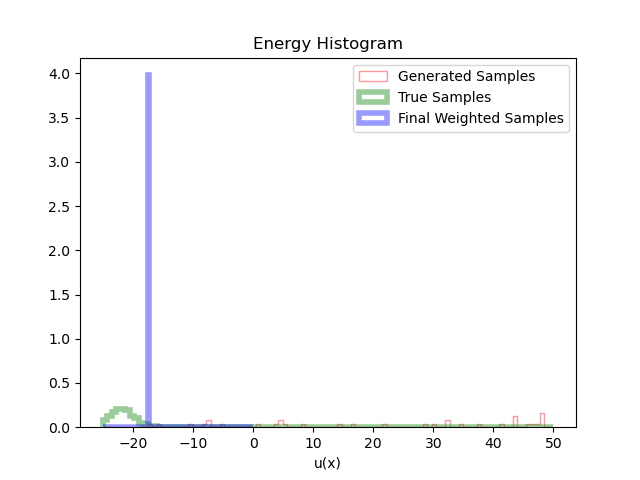
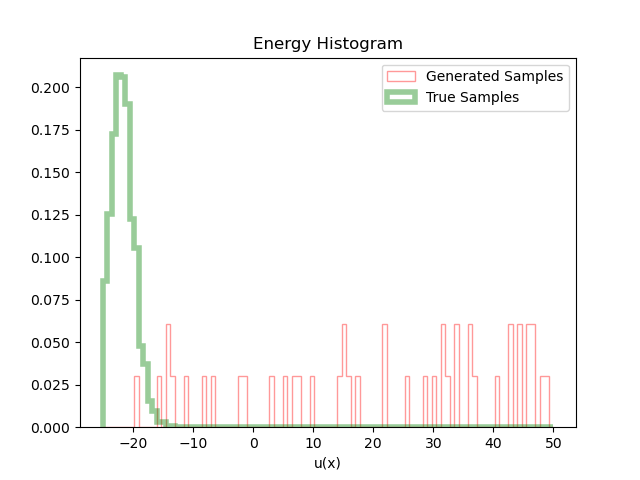
plotted with the combination loss

diff --git a/eval_and_plot.py b/eval_and_plot.py
@@ -186,9 +186,9 @@ def plot_generating_flow(args, data, flow, prior, target, latent, samples, model
             linewidth=4,
             label='True Samples');
     
-        plt.hist(energies_bg, bins=100, density=True, range=(min_energy, 0), alpha=0.4, histtype='step', linewidth=4,
-            color="b", label="Final Weighted Samples", weights=np.exp(-log_w));
-
+        # plt.hist(energies_bg, bins=100, density=True, range=(min_energy, 0), alpha=0.4, histtype='step', linewidth=4,
+            # color="b", label="Final Weighted Samples", weights=np.exp(-log_w));
+# 
         plt.xlabel("u(x)", fontsize=10)
         # plt.xticks([...])
         # plt.yticks([...]) 
